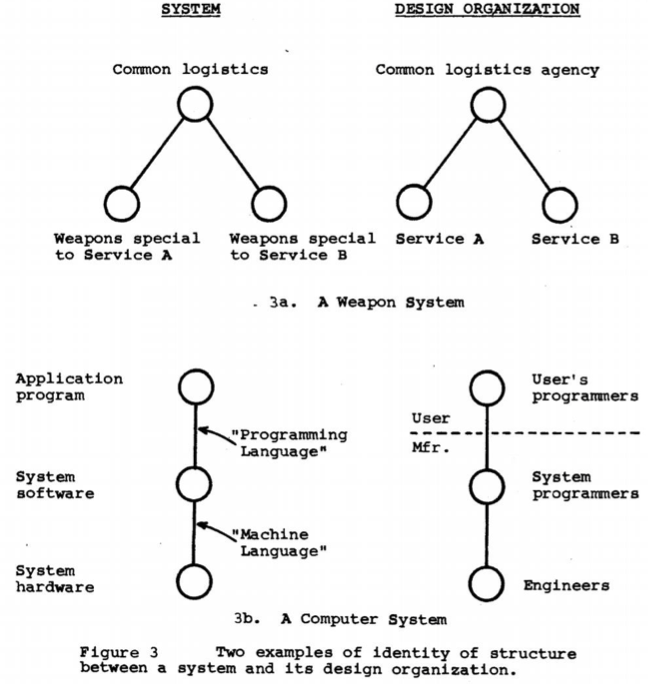
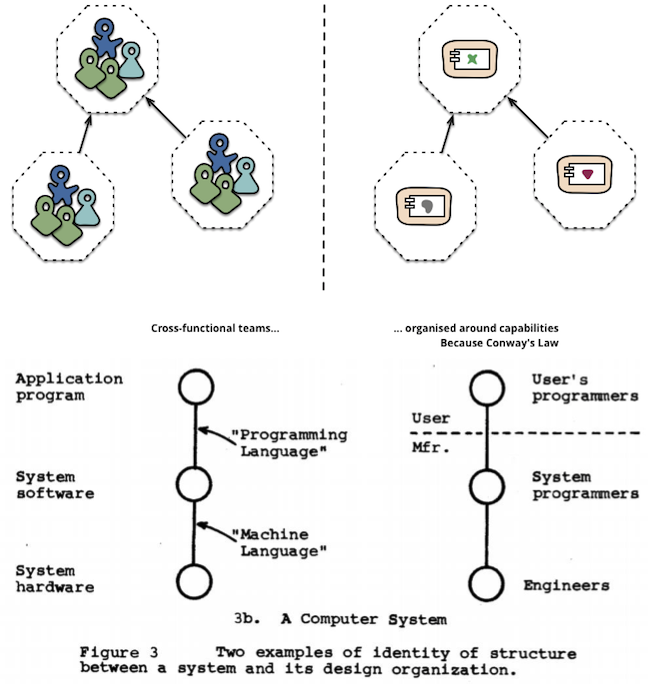
slått sammen mikrotjeneste-bilde

diff --git a/how_do_you_invent.md b/how_do_you_invent.md
@@ -34,8 +34,7 @@ Conway har hatt enorm påvirkning på vår tids store hype. Som vi ser av figure
 >
 > [Sam Newman, Demystifying Conway’s Law, 2015](https://www.thoughtworks.com/insights/blog/demystifying-conways-law)
 
-![Mikrotjenester](https://github.com/steinim/writings/raw/master/images/microservices2.png)
-![Monolittisk applikasjon speiler siloene ](https://github.com/steinim/writings/raw/master/images/microservices1.png)
+![Mikrotjenester](https://github.com/steinim/writings/raw/master/images/microservices.png)
 
 ## Conway om kontinuerlig forbedring
 Har du bidratt til å utvikle et IT-system noen gang så vet du at perfeksjon er umulig. Ikke bare første gang du lager det, men hver gang du gjør en forbedring.
